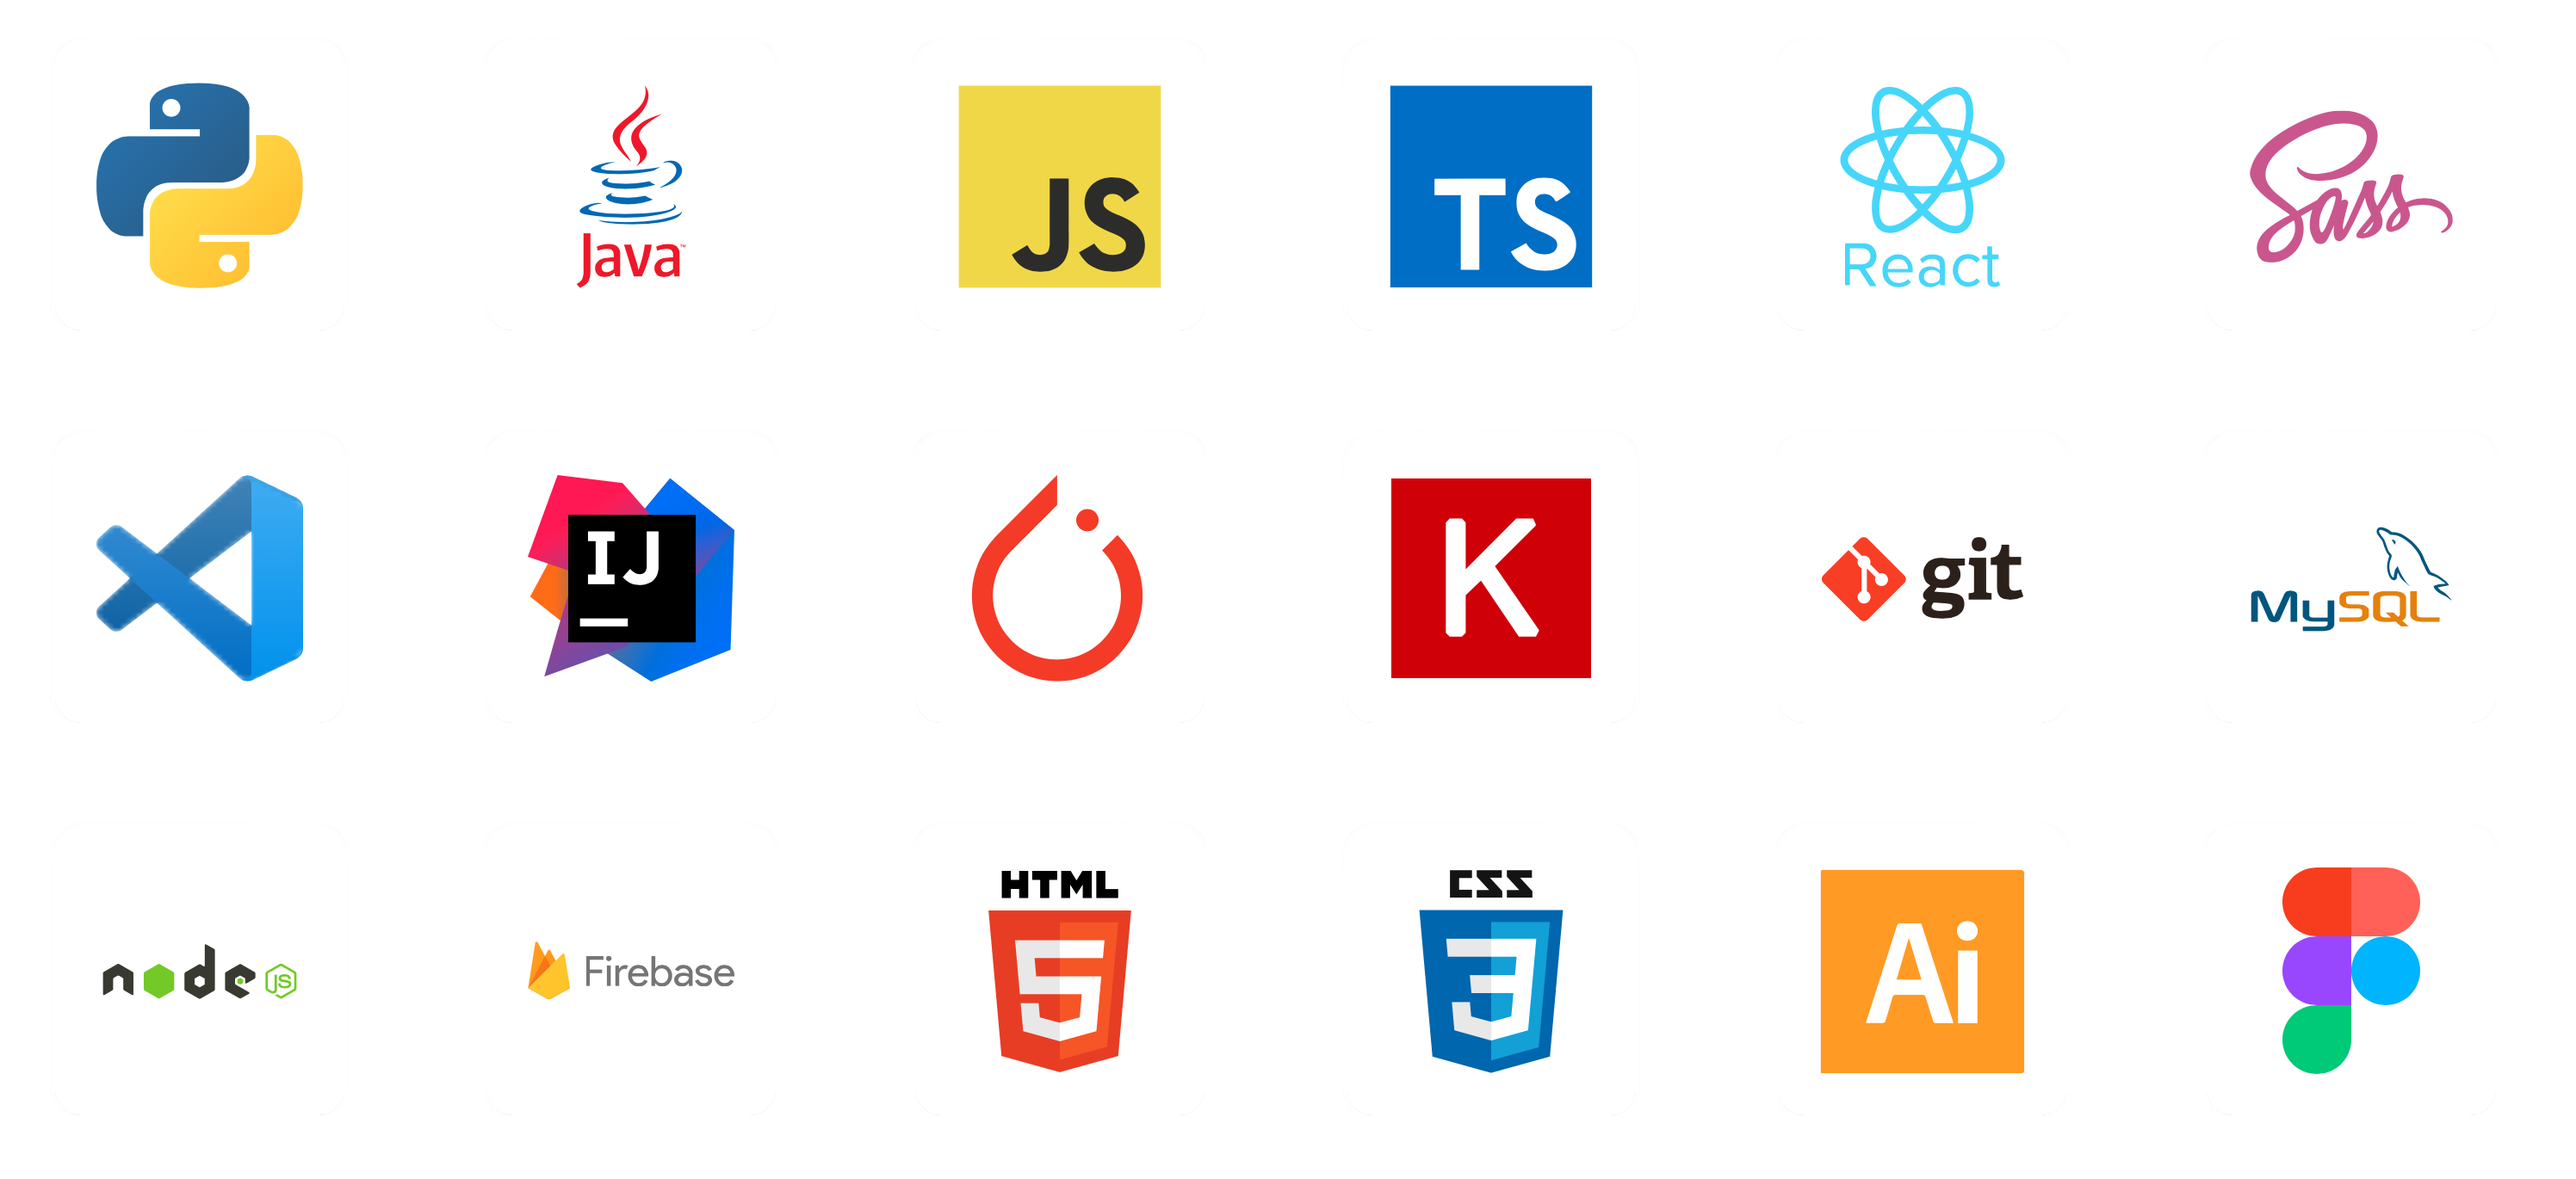
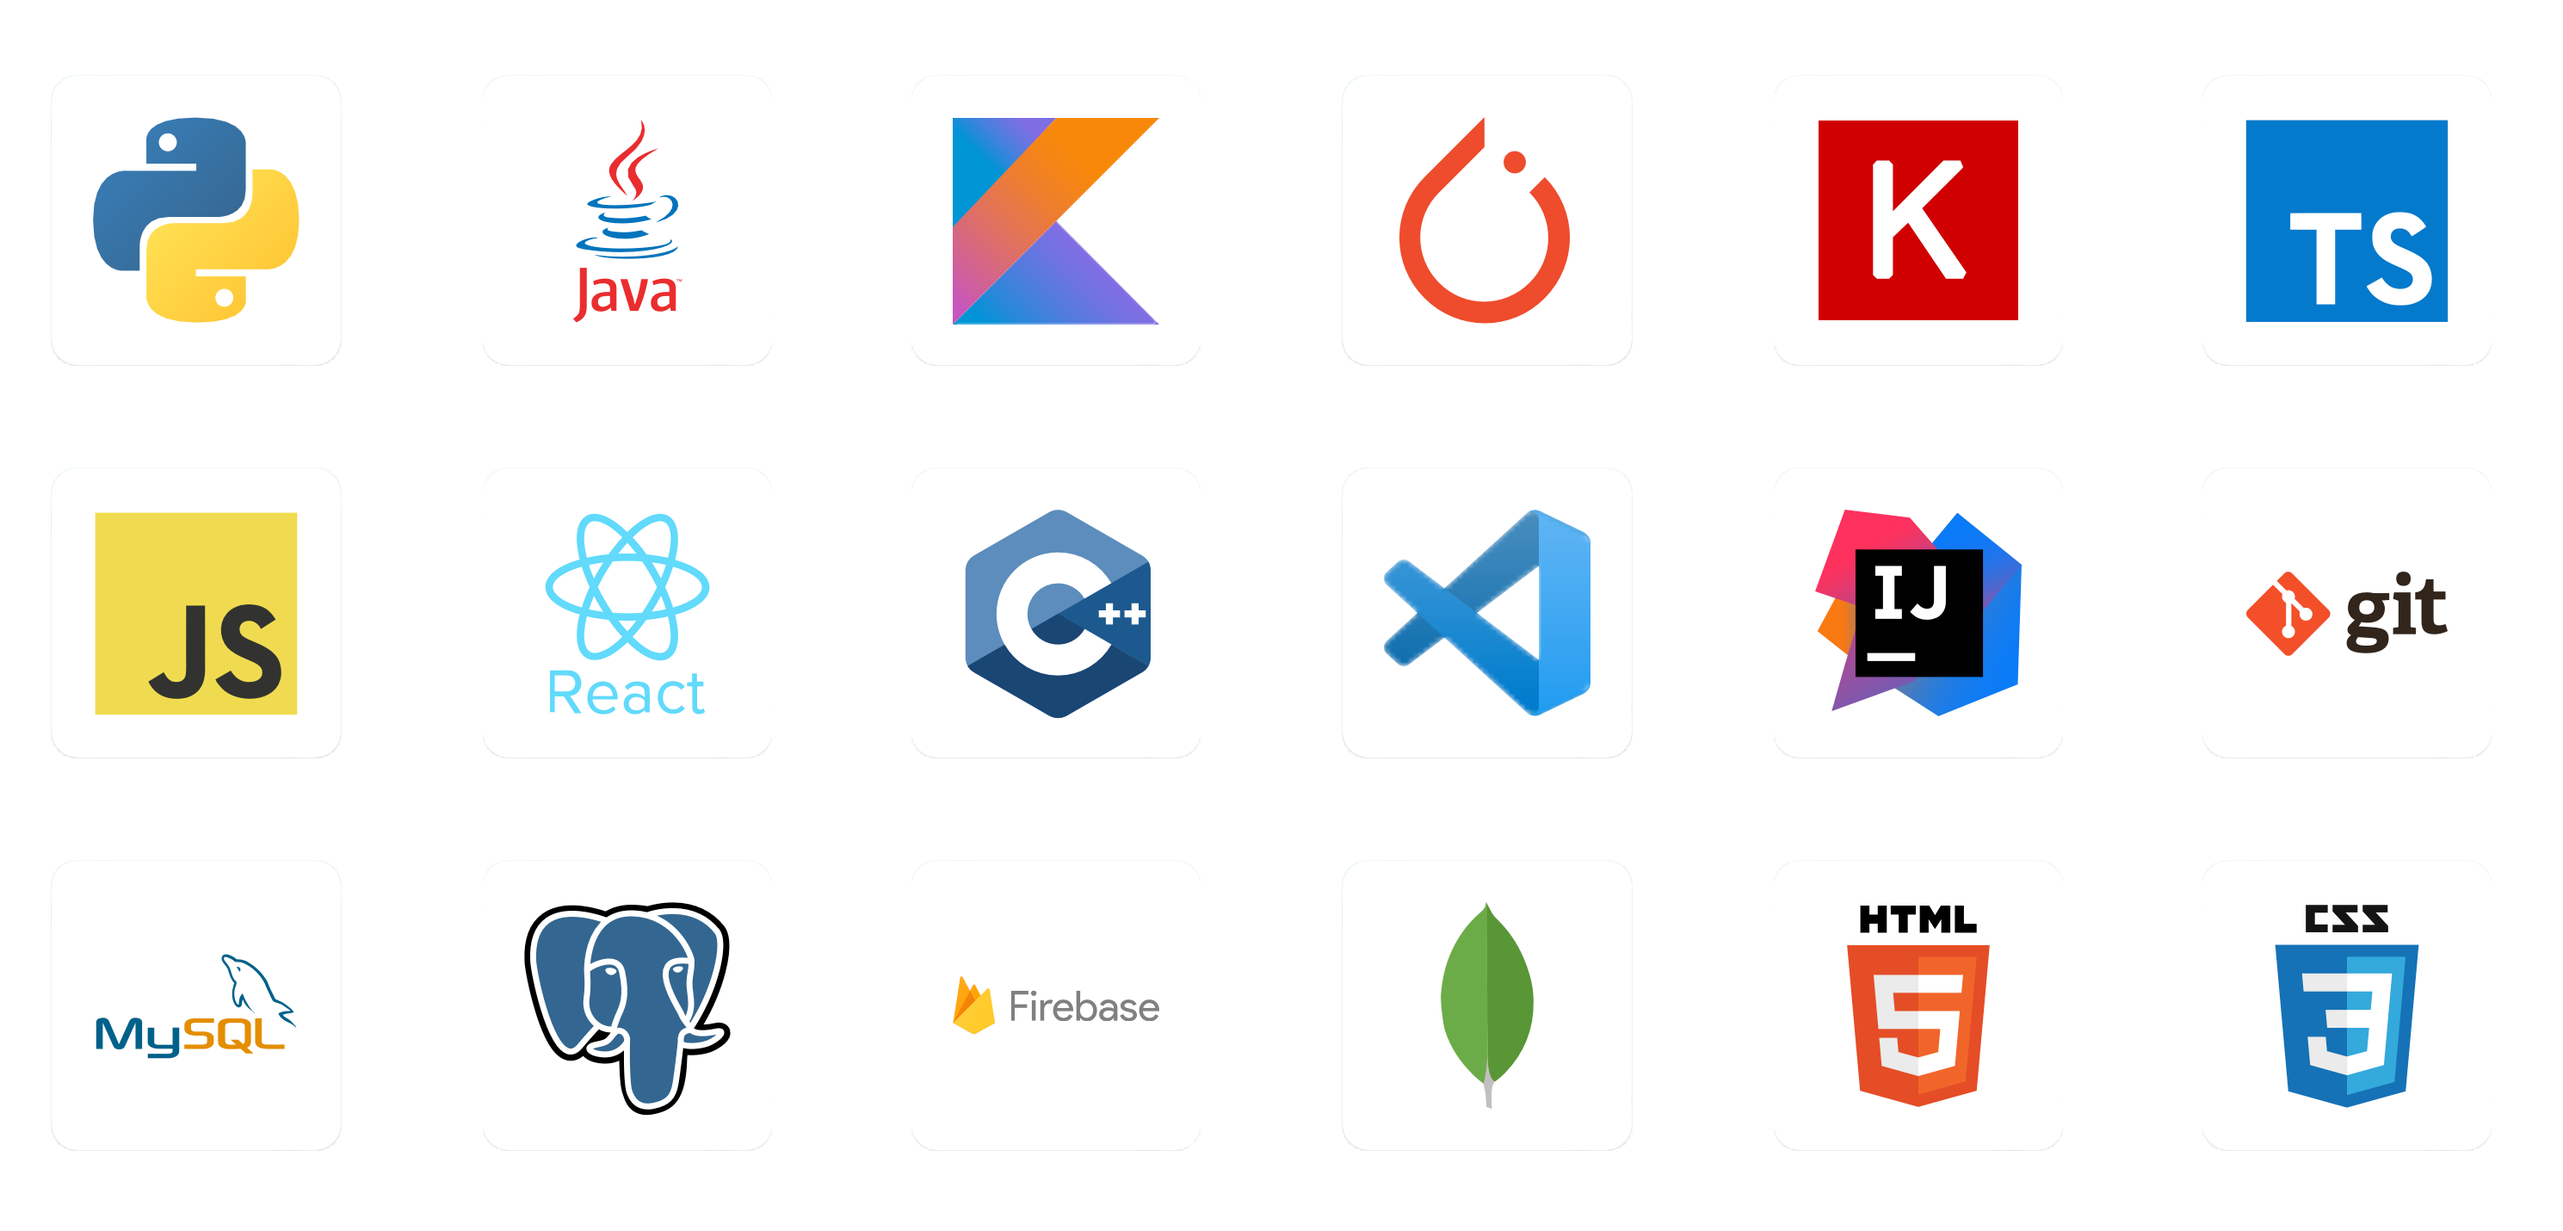
Update

diff --git a/assets/technologies.html b/assets/technologies.html
@@ -1,27 +1,32 @@
 <body class="container">
     <card class="card" title="python"><img src="svg/python.svg"/></card>
     <card class="card" title="java"><img src="svg/java.svg"/></card>
-    <card class="card" title="javascript"><img src="svg/javascript.svg"/></card>
-    <card class="card" title="typescript"><img src="svg/typescript.svg"/></card>
-    <card class="card" title="react"><img src="svg/react.svg"/></card>
-    <card class="card" title="sass"><img src="svg/sass.svg"/></card>
-    <card class="card" title="vscode"><img src="svg/vscode.svg"/></card>
-    <card class="card" title="intellij idea"><img src="svg/intellij.svg"/></card>
+    <card class="card" title="kotlin"><img src="svg/kotlin.svg"/></card>
     <card class="card" title="pytorch"><img src="svg/pytorch.svg" width="35em" height="40em" style="margin: 0 0 4px 2px;"/></card>
     <card class="card" title="keras"><img src="svg/keras.svg"/></card>
+    <card class="card" title="typescript"><img src="svg/typescript.svg"/></card>
+    <card class="card" title="javascript"><img src="svg/javascript.svg"/></card>
+    <card class="card" title="react"><img src="svg/react.svg"/></card>
+    <card class="card" title="cpp"><img src="svg/cpp.svg"/></card>
+    <card class="card" title="vscode"><img src="svg/vscode.svg"/></card>
+    <card class="card" title="intellij idea"><img src="svg/intellij.svg"/></card>
     <card class="card" title="git"><img src="svg/git.svg"/></card>
+    <!-- <card class="card" title="terminal"><img src="svg/terminal.svg"/></card> -->
     <card class="card" title="mysql"><img src="svg/mysql.svg"/></card>
-    <!--<card class="card" title="terminal"><img src="svg/terminal.svg"/></card>-->
-    <card class="card" title="node"><img src="svg/node.svg"/></card>
+    <card class="card" title="postgres"><img src="svg/postgresql.svg"/></card>
     <card class="card" title="firebase"><img src="svg/firebase.svg"/></card>
+    <card class="card" title="mongodb"><img src="svg/mongodb.svg"/></card>
     <card class="card" title="html"><img src="svg/html.svg"/></card>
     <card class="card" title="css"><img src="svg/css.svg"/></card>
-    <card class="card" title="illustrator"><img src="svg/illustrator.svg"/></card>
-    <card class="card" title="figma"><img src="svg/figma.svg"/></card>
+    <!-- <card class="card" title="figma"><img src="svg/figma.svg"/></card> -->
+    <!-- <card class="card" title="sass"><img src="svg/sass.svg"/></card> -->
+    <!-- <card class="card" title="node"><img src="svg/node.svg"/></card> -->
+    <!-- <card class="card" title="illustrator"><img src="svg/illustrator.svg"/></card> -->
 </body>
 <style>
     body {
-        /* background-color: transparent; */
+        background-color: transparent;
+        background-color: rgb(210, 247, 210);
         /* background-color: white; */
     }
 
@@ -29,7 +34,7 @@
         padding: 8px;
         border-radius: 5px;
         /* border: 1px black solid; */
-        /* background-color: rgb(242, 242, 242); */
+        background-color: rgb(255, 255, 255);
         box-shadow: 0 3px 6px rgba(0, 0, 0, 0.16), 0 3px 6px rgba(0, 0, 0, 0.23);
         margin: 10px;
         height: 40px;
